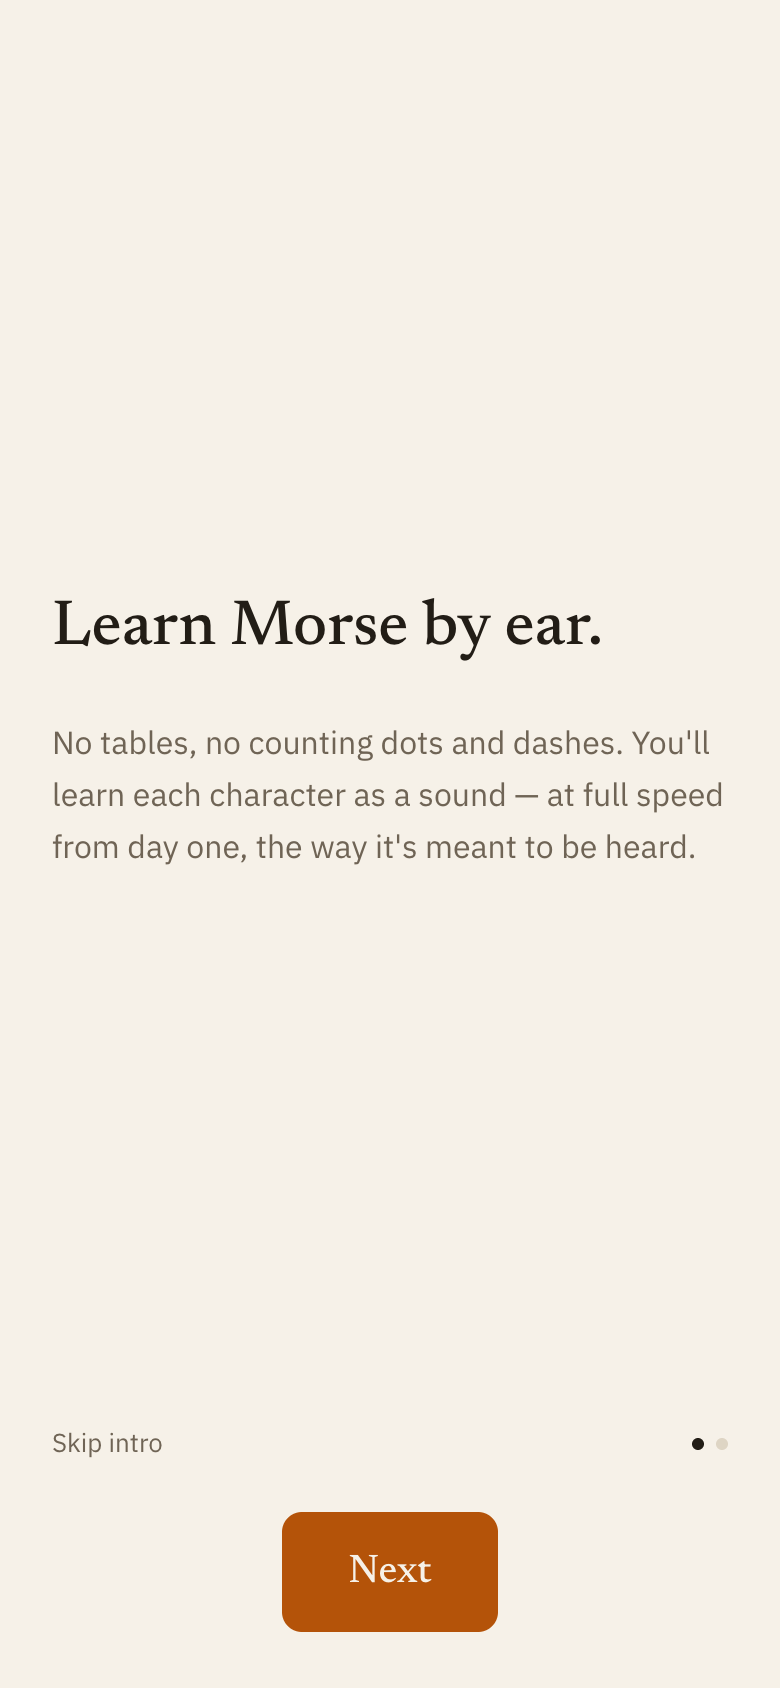
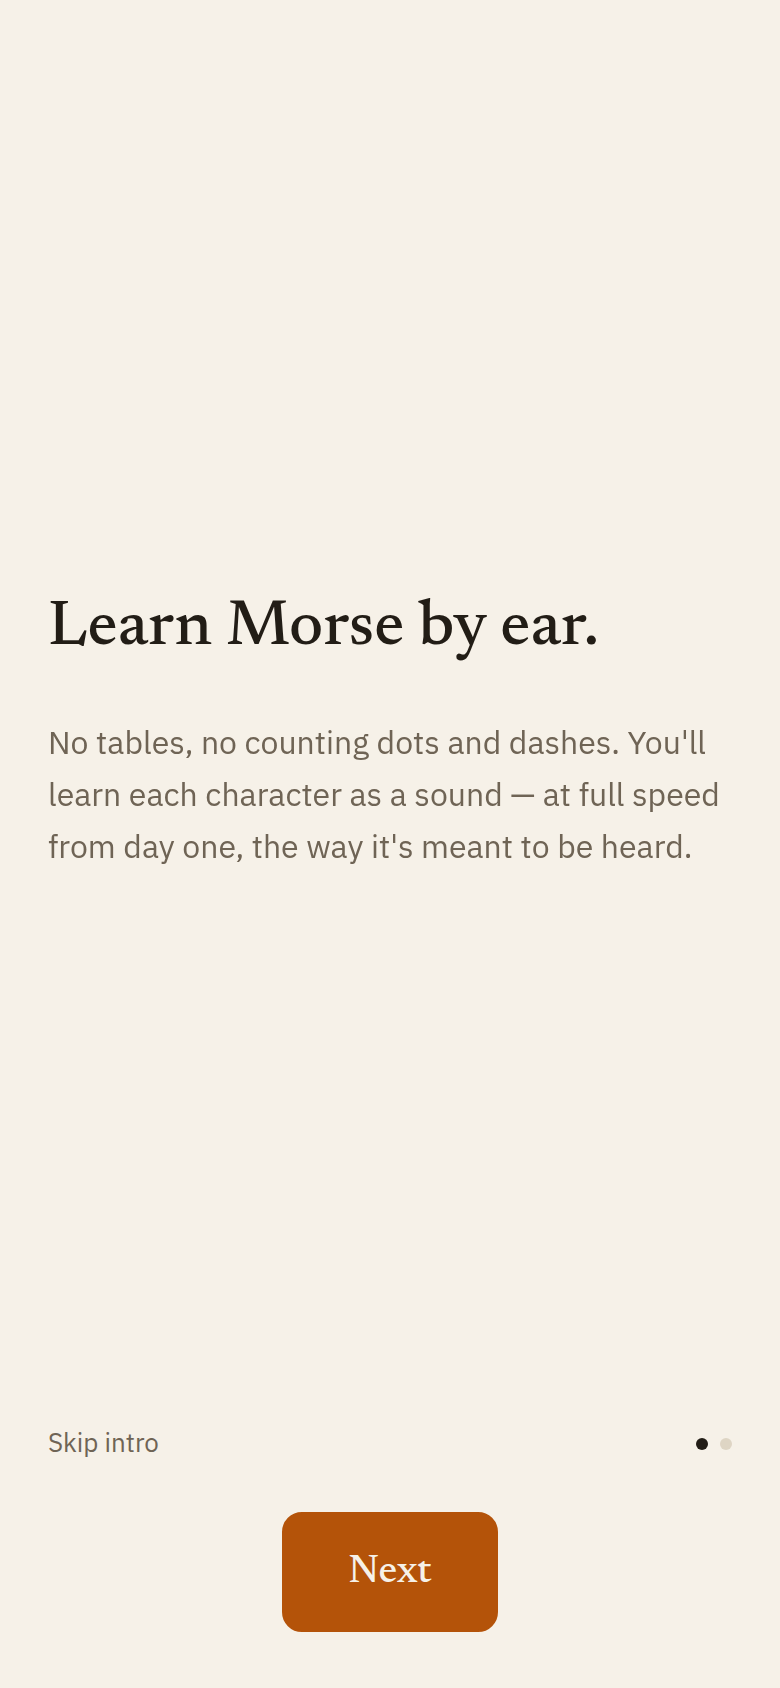
docs: Uebergabe und Screenshots auf den Stand dieser Runde
- Neuer Abschnitt 3c: die Klang-Variabilitaet (Stufen, die fuenf Regeln,
  das Einmal-Flag). Stufe 3 (QRN) als offen markiert.
- 5d von "vier Punkte fuer Fable" auf "durch Review 6 entschieden"
  gedreht; die Umsetzung steht in 5193d22, Nachbarmasse in FINDINGS.md 3.
- Zahlen aktualisiert (114 Tests, Bundle), Nachweise dieser Runde
  ergaenzt (instrumentierte Oszillatoren, nachgemessene Review-6-Masse,
  die addInitScript-Falle beim Testen von Einmal-Zustaenden).
- Screenshots (Intro, Lernkarte, Training, 390 px) neu gezogen: 48er-
  Pillen, Weight 300, 24er-Padding, 64er-Tasten sind drauf.

Claude-Session: https://claude.ai/code/session_01AnyYB9E8t4z2RQYegVTQeT

diff --git a/HANDOVER.md b/HANDOVER.md
@@ -1,34 +1,29 @@
-# Übergabe — Stand nach der Marken-Runde: Morse Lab
+# Übergabe — Stand nach Klang-Variabilität und Review-6-Fixes
 
 **Repository:** https://github.com/Erikemmer/projekt-morse
-**Stand:** `main` @ `915eb83`. Fünf Commits aus der Marken-Runde:
+**Stand:** `main` @ `8d35159` (Marken-Runde). Darauf aufbauend Branch
+`claude/morse-handover-alignment-nbkk6o` mit drei Commits — zu reviewen (Fable)
+und dann nach `main` zu mergen; erst der Merge deployt sie auf Produktion:
 
-1. `e819703` — Guidelines 1.1 ins Repo, Rangfolge und die drei Addenda
-2. `05b5166` — Token-Migration auf 1.1 §13
-3. `958a427` — das neue Logo (der Morsetaster), Favicon und App-Icons
-4. `126b6f2` — Umbenennung auf **Morse Lab**
-5. `915eb83` — die Komponenten auf 1.1-Stand (Block B)
+1. `09c5ca2` — **Klang-Variabilität in Stufen** (HVPT; Aufgabe 1 dieser Runde)
+2. `5193d22` — **Metrik-Fixes aus Review 6** (Notion-Log #43; Aufgabe 2)
+3. (dieser Doku-Commit, mit den neu gezogenen Screenshots)
 
-Davor: `88100e8`/`2cd1c58` (Lernmodus), `8183ff1`/`a101c6a`/`e790d15`
-(Politur und Einführung), `0261303`/`2c84cfa` (Übergaben).
-
-Die Streak-Runde ist weiterhin **nicht** gelaufen — sie wurde bewusst hinter
-den Lernmodus gestellt und bleibt der nächste Schritt (§8). Die Historie
-bleibt linear.
+Die Streak-Runde ist weiterhin **bewusst nicht** gelaufen (§8).
 
 **Produktions-URL: https://projekt-morse.pages.dev** — live auf Cloudflare
 Pages, mit Git-Anbindung an dieses Repo. Jeder Push auf `main` baut und
-deployt von selbst.
+deployt von selbst; dieser Branch deployt erst mit dem Merge.
 
 **`morse-lab.com` ist an das Projekt gebunden, aber noch nicht erreichbar** —
-es fehlt ein DNS-Eintrag, den ich nicht anlegen darf. Der genaue Eintrag steht
-in §5a; es ist ein Handgriff.
+es fehlt der eine DNS-Eintrag aus §5a.
 
-**Datum:** 2026-09-01
+**Datum:** 2026-09-01 (zweite Runde dieses Tages)
 
 Die verbindlichen Regeln stehen in [CLAUDE.md](./CLAUDE.md). Nebenbefunde in
-[FINDINGS.md](./FINDINGS.md) — Einträge 1 und 2 sind inzwischen entschieden und
-behoben, die Begründungen stehen dort.
+[FINDINGS.md](./FINDINGS.md) — Einträge 1 und 2 sind entschieden und behoben;
+**Eintrag 3 ist neu** (Maße neben den Guidelines, die Review 6 *nicht* geregelt
+hat) und wartet auf das nächste Review.
 
 ---
 
@@ -39,7 +34,11 @@ live und sieht jetzt aus wie das Mockup. Unverändert gilt: der Zeichensatz
 wächst von selbst (§3), die App ist eine offline nutzbare PWA ohne jeden
 Fremdabruf, `--gray` besteht AA auch für kleinen Text.
 
-**Neu aus dieser Runde: das Projekt heißt Morse Lab und sieht danach aus.**
+**Neu aus dieser Runde: der Klang variiert in Stufen (§3c), und die vier
+Punkte aus §5d sind durch Review 6 entschieden und umgesetzt (§5d).**
+
+Aus der Marken-Runde davor gilt weiter: das Projekt heißt Morse Lab und sieht
+danach aus.
 Die Marken-Richtlinie 1.1 liegt im Repo und führt (§3b). Die Tokens tragen ihre
 Namen, das Logo ist der Morsetaster, und die Komponenten folgen den Regeln aus
 §7 und §4 — allen voran der harten: **Amber steht nie zweimal in einer View.**
@@ -78,7 +77,8 @@ Fables Urteil.
 | `src/engine/settings.ts` | Tempo, Tonhöhe, Start-Satz, Kandidatenreihe, **Gruppengröße** | erweitert |
 | `src/engine/stats.ts` | Statistik, Wachstum, Tag/Sitzung/Intro, **eingeführte Zeichen** | erweitert |
 | `src/engine/growth.ts` | Die Wachstumsregel | unverändert |
-| `src/engine/learn.ts` | **Der Lernmodus**: Karte, Echo-Check | neu, getestet |
+| `src/engine/learn.ts` | Der Lernmodus: Karte, Echo-Check | unverändert |
+| `src/engine/variability.ts` | **Klang-Variabilität in Stufen (HVPT)** | neu, getestet |
 | `src/engine/selection.ts` | Gewichtung nach Schwäche | unverändert |
 | `src/engine/session.ts` | Loop-Zustandsautomat; Pool = aktiver Satz | angepasst |
 | `src/audio/player.ts` | Wiedergabe mit Audio-Uhr nach außen | unverändert |
@@ -95,12 +95,12 @@ Fables Urteil.
 | `src/ui/today.ts` | **Kalendertag** für die Engine (die bleibt ohne Uhr) | neu |
 | `src/ui/progressStorage.ts` | localStorage rein/raus, **plus Sofort-Schreiber** | erweitert |
 | `src/styles.css` | **Tokens nach 1.1 §13**, Grundriss, Mockup-Maße | migriert |
-| `docs/screenshots/` | **Trainings-Screen bei 390 px** für den Design-Review | neu |
+| `docs/screenshots/` | Intro, Lernkarte, Training bei 390 px | **neu gezogen** |
 | `src/fonts/` | **woff2 (latin) + SIL-OFL-Lizenzen** | neu |
 | `public/sw.js` | **Service Worker** (offline) | neu |
 | `public/manifest.webmanifest`, `public/icons/` | **PWA-Manifest, Icons** | neu |
 | `vite.config.ts` | + Plugin: injiziert Precache-Liste in `dist/sw.js` | erweitert |
-| `src/engine/*.test.ts` | **101 Tests** (16 Grundgerüst, 42 Loop, 16 Wachstum, 27 Lernmodus) | grün |
+| `src/engine/*.test.ts` | **114 Tests** (16 Grundgerüst, 42 Loop, 16 Wachstum, 27 Lernmodus, 13 Variabilität) | grün |
 
 Richtung unverändert: `src/engine/` DOM-frei, Player kennt die Engine, die Engine
 kennt niemanden, die UI rechnet nicht.
@@ -265,17 +265,70 @@ Das Favicon ist bewusst **nicht** der Taster, sondern die Fallback-Marke: unter
 **Die eine Regel, die am leichtesten bricht:** Amber nie zweimal in einer View.
 Sie ist deshalb nicht nur beschrieben, sondern geprüft — siehe §4.
 
+## 3c. Die Klang-Variabilität — erst stabil, dann variabel
+
+**Warum:** HVPT (high variability phonetic training) — wer immer denselben
+620-Hz-Ton hört, lernt Kategorien, die im Funkalltag nicht generalisieren.
+**Aber:** Variabilität erst, wenn der Grundstock sitzt. Die Stufe leitet sich
+deshalb rein aus dem Fortschritt ab (Größe des aktiven Zeichensatzes), wie die
+Wachstumsregel; alles in `engine/variability.ts`, Zufall als Parameter, Werte
+als benannte Konstanten.
+
+- **Stufe 0** (bis 7 aktive Zeichen): fest 620 Hz — exakt wie vorher, kein
+  Würfeln.
+- **Stufe 1** (ab 8): Tonhöhe **einmal pro Sitzung** aus 560–680 Hz, dann fest.
+- **Stufe 2** (ab 12): Tonhöhe **pro Abfrage** aus 520–720 Hz; zusätzlich
+  variiert das Gesamttempo pro Sitzung um ±10 % um den Sollwert.
+- **Stufe 3** (Timing-Imperfektion, QRN): **nicht gebaut**, nur als Konstante
+  mit Kommentar vorgesehen. Schwelle und Ausgestaltung sind offene
+  Notion-Entscheidungen — nicht hier erfinden.
+
+Fünf Regeln, alle getestet:
+
+1. **Das Zeichentempo bleibt immer 20 WPM.** Variieren dürfen nur die
+   Farnsworth-Pausen. `SessionSound` führt bewusst kein `characterWpm` — was
+   es nicht gibt, kann niemand versehentlich variieren.
+2. **Das Eyebrow zeigt immer die echte Tonhöhe der laufenden Abfrage**
+   (CLAUDE.md 2.6), im Training wie im Echo-Check.
+3. **Lernkarten und Echo-Check spielen immer den Sitzungs-Ton** — kein
+   Prompt-Jitter beim Erstkontakt; ein neuer Klang braucht einen Anker.
+4. **Eine Wiederholung derselben Abfrage behält ihren Ton**: gezogen wird pro
+   Prompt, nicht pro Abspielen. „Noch mal hören" wiederholt dasselbe Signal.
+5. **Statistik und Wachstumsregel sehen von alledem nichts**: gleicher
+   Antwortverlauf ergibt byte-gleichen Fortschritt, egal bei welchem Klang.
+
+Beim ersten Aktivwerden von Stufe 1 steht **einmalig** eine leise Zeile auf dem
+Start-Screen („From here on, the pitch varies between sessions — real signals
+do."). Das Flag (`variabilityNoticeSeen`, additiv) wird **sofort** geschrieben,
+wie `introSeen` — der Leerlauf-Schreiber käme bei einem schnellen Reload zu
+spät.
+
+Der Player nimmt dafür eine optionale Frequenz **pro Wiedergabe** entgegen;
+das Timing entsteht pro Sitzung statt als Modul-Konstante. An der Audio-Uhr
+und am Planer hat sich nichts geändert.
+
 ## 4. Was nachgewiesen ist (und wie)
 
-- **`npm test` → 101/101 grün** (74 vorher, 27 neu für den Lernmodus). Die ARRL-Referenz („PARIS bei 5 WpM = 12 s")
+- **`npm test` → 114/114 grün** (101 vorher, 13 neu für die Variabilität:
+  Bandgrenzen direkt angefahren statt statistisch getroffen, Stufenwechsel,
+  Konstanz über Runden, Byte-Gleichheit des Fortschritts bei verschiedenen
+  Klängen). Die ARRL-Referenz („PARIS bei 5 WpM = 12 s")
   prüft weiter gegen den Standard, nicht gegen die Implementierung. Die
   Wachstums-Tests kippen jede Bedingung einzeln; Zufall kommt überall als
   Parameter herein.
-- **`npm run build` → sauber.** Bundle **170,10 kB roh / 54,47 kB gzip**
-  (vor der Marken-Runde 169,97 / 54,43), CSS **8,16 kB / 2,25 kB** (vorher
-  7,35 / 2,09). Die ganze Marken-Runde kostet also +0,13 kB JS und +0,81 kB
-  CSS. Dazu unverändert einmalig 129 kB woff2 und die neu gezeichneten Icons.
-  **Keine neue Abhängigkeit.**
+- **`npm run build` → sauber.** Bundle **171,30 kB roh / 54,92 kB gzip**
+  (vorher 170,10 / 54,47), CSS 8,26 kB / 2,28 kB. **Keine neue Abhängigkeit.**
+- **Die Variabilität ist im Browser durchgespielt** (instrumentierte
+  Oszillatoren): Stufe 0 unverändert 620 Hz ohne Zeile; Stufe 1 zeigt die
+  Zeile genau einmal, hält den Ton über die Runden (Oszillator-Frequenz ==
+  Eyebrow, 667 Hz) und zieht in der nächsten Sitzung neu (642 Hz); Stufe 2
+  zieht pro Abfrage (4 Runden, 4 verschiedene Töne, Oszillatoren decken sich
+  mit dem Eyebrow). Beim „einmalig" der Zeile gilt für künftige Tests: ein
+  `addInitScript`-Seed läuft bei **jeder** Navigation, auch beim Reload — wer
+  das vergisst, testet seinen eigenen Seed statt der App.
+- **Die Review-6-Maße sind im Browser nachgemessen:** Antworttasten 64 px,
+  Shell-Padding `32/24/28`, Strich-Pille 48×16, Lernkarten-Buchstabe in
+  Weight 300 (Screenshot). Screenshots in `docs/screenshots/` neu gezogen.
 - **Amber nie zweimal in einer View (1.1 §4) — 12 von 12 Ansichten.** Geprüft
   wird am *gerenderten* Ergebnis, nicht am Stylesheet: das Skript geht jedes
   sichtbare Element durch und zählt Fläche, Rahmen und Text in `--amber` oder
@@ -485,7 +538,15 @@ sichtbare Zeile zurück.
    die Regel aus CLAUDE.md 6 ist also gewahrt — die Hausregel ist es strenger
    gelesen nicht mehr.
 
-## 5d. Wo Umsetzung und 1.1 auseinandergehen — vier Punkte für Fable
+## 5d. Wo Umsetzung und 1.1 auseinandergingen — durch Review 6 entschieden
+
+**Alle vier Punkte sind mit Review 6 (Notion-Log #43) geregelt und in
+`5193d22` umgesetzt:** (1) Strich 48×16 statt 52×16, (2) Lernkarten-Buchstabe
+Weight 300, (3) Seitenpadding 24, Blockabstand 32, Antworttasten 64,
+(4) das sichtbar-deaktivierte Antwort-Gitter bleibt — als **dokumentierte
+Ausnahme von §7**, der Kommentar steht am Gitter selbst (`App.tsx`, `Answers`)
+und an der CSS-Regel. Benachbarte, *nicht* geregelte Maße stehen in
+FINDINGS.md 3. Der ursprüngliche Wortlaut der vier Punkte folgt als Kontext:
 
 Gefunden beim Umsetzen, **nicht** eigenmächtig geändert: alle vier liegen außerhalb
 der zehn Aufgabenpunkte, und drei davon würden Maße anfassen, die Fable im
@@ -573,11 +634,12 @@ npm run preview    # dist ausliefern -- hier laesst sich die PWA testen
 
 ## 8. Nächster Schritt
 
-1. **`morse-lab.com` erreichbar machen** — der DNS-Eintrag aus §5a. Danach ist
+1. **Review durch Fable und Merge nach `main`** — die drei Commits dieser
+   Runde (`09c5ca2`, `5193d22`, Doku). Erst der Merge deployt sie. Zum Review
+   gehören: die neu gezogenen Screenshots, §3c (Variabilität), die
+   FINDINGS.md-3-Maße, dazu weiterhin §5b und §5c.
+2. **`morse-lab.com` erreichbar machen** — der DNS-Eintrag aus §5a. Danach ist
    die Marken-Runde wirklich fertig.
-2. **Review durch Fable** — gegen die drei Screenshots in
-   [`docs/screenshots/`](./docs/screenshots/) (Training, Lernkarte, Intro),
-   dazu §5b, §5c und die vier Punkte in §5d.
 3. **Streak mit Freeze-Gnade** — die Runde steht noch aus. Gebaut wird er als
    reine Engine-Logik (`src/engine/`), Persistenz additiv. Der Tages-Eimer aus
    dieser Runde ist bewusst *keine* Historie: er hält nur den laufenden Tag.
